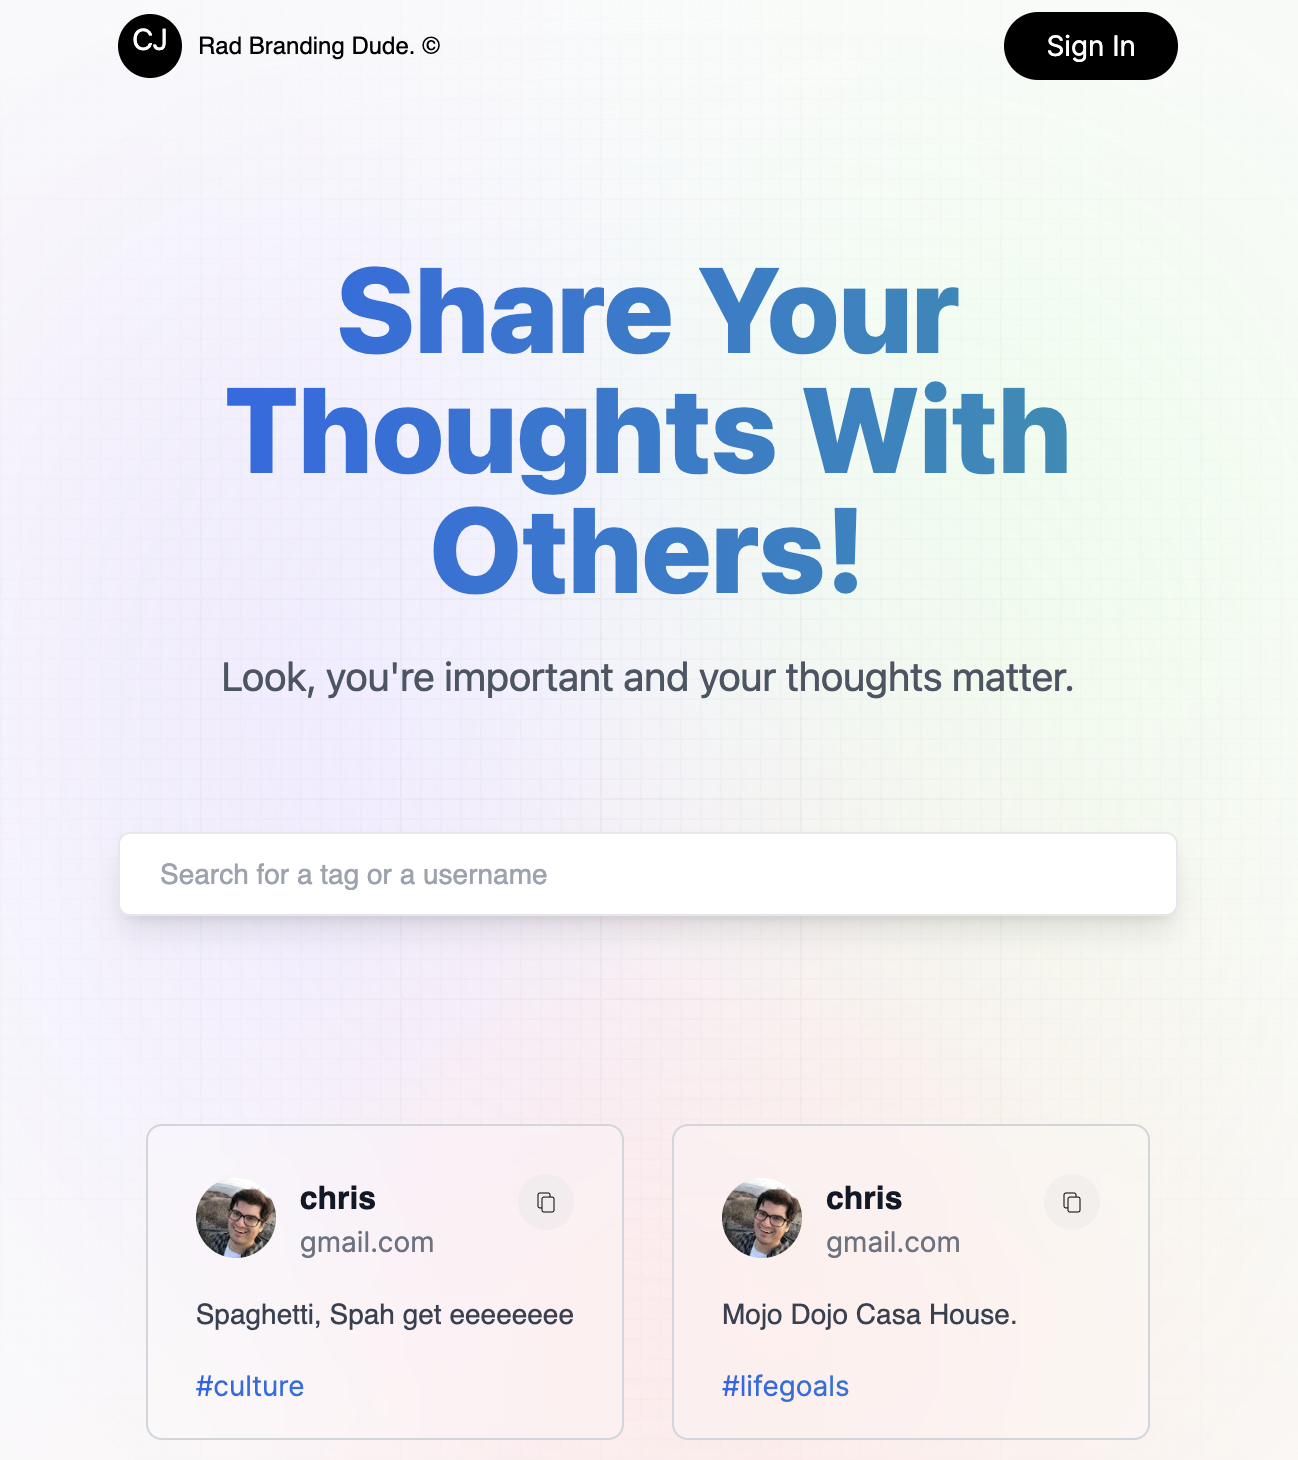
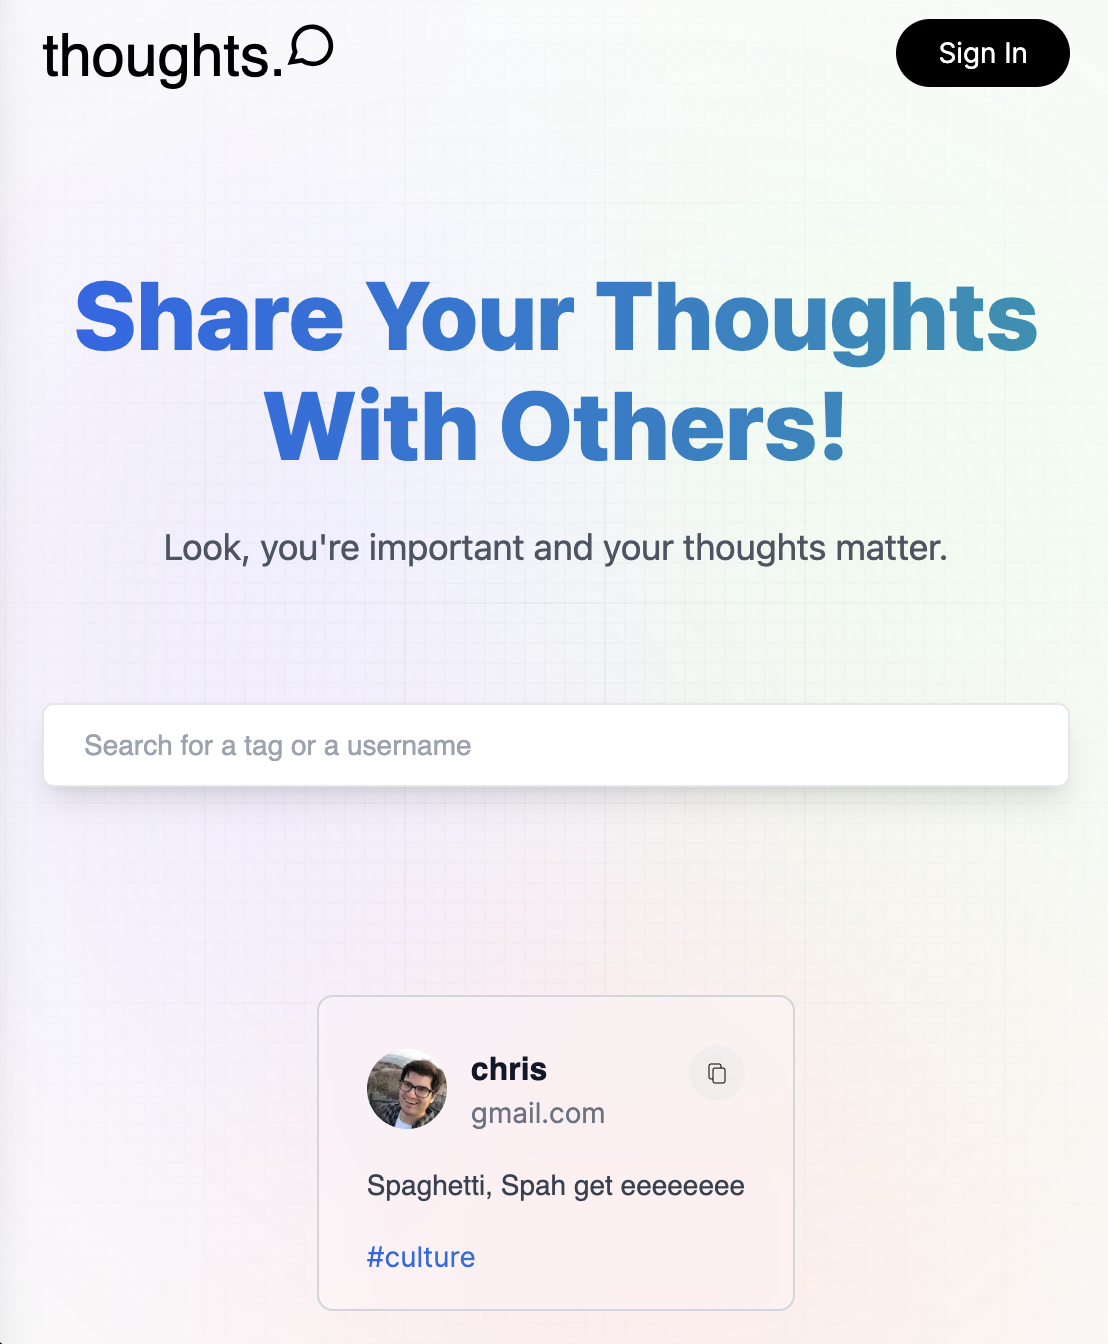
big update sorry...

diff --git a/components/Nav.jsx b/components/Nav.jsx
@@ -1,6 +1,6 @@
 "use client"; // Do to client side functionality useEffect, use State
 
-import Link  from "next/link";
+import Link from "next/link";
 import Image from "next/image";
 import { useState, useEffect } from "react";
 import {signIn, signOut, useSession, getProviders} from "next-auth/react";
@@ -23,8 +23,8 @@ const Nav = () => {
   return (
    <nav className="flex-between w-full mb-16 pt-3">
     <Link href="/" className="flex gap-2 flex-center">
-        <Image src="/assets/images/logo.svg" width={32} height={32} className="object-contain" alt="logo img"/>
-        <span className="logo_text"> Rad Branding Dude. ©</span>
+        <Image src="/assets/images/logo.svg" width={150} height={150} className="object-contain" alt="logo img"/>
+        <span className="logo_text"></span>
     </Link>
    
     {/* Desktop Navigation */}
@@ -32,17 +32,39 @@ const Nav = () => {
     <div className="sm:flex hidden">
     {session?.user ? (
         <div className="flex gap-3 md:gap-5"> 
-        <Link href="/create-prompt" className="black_btn">
+        <Link href="/share-thought" className="black_btn">
             Share Thought
         </Link>
-        <button type="button" onClick={signOut} className="outline_btn">
-            Sign Out
-        </button>
-        <Link href="/profile">
+        <div className="flex relative">
             <Image src={session?.user.image} width={37} height={37} className="rounded-full"
-            alt="profile"></Image>
-        </Link>
+            alt="profile" onClick={() => settoggleDropdown((prev) => !prev)}></Image>
+             {toggleDropdown && (
+                <div className="dropdown">
+                    <Link 
+                    href="/profile"
+                    className="dropdown_link"
+                    onClick={() => settoggleDropdown(false)}>
+                        My Profile
+                    </Link>
+                    <Link 
+                    href="/share-thought"
+                    className="dropdown_link"
+                    onClick={() => settoggleDropdown(false)}>
+                       Create Thought
+                    </Link>
+                    <Link href="/" passHref>
+                    <button type="button"
+                    onClick={() => {settoggleDropdown(false); 
+                    signOut();
+                    }}
+                    className="mt-5 w-full black_btn">
+                        Sign Out
+                    </button>
+                    </Link>
+                </div>
+            )}
         </div>
+    </div>
     ): ( 
     <>
     {providers && 
@@ -74,11 +96,12 @@ const Nav = () => {
                         My Profile
                     </Link>
                     <Link 
-                    href="/create-prompt"
+                    href="/share-thought"
                     className="dropdown_link"
                     onClick={() => settoggleDropdown(false)}>
                        Create Thought
                     </Link>
+                    <Link href="/" passHref>
                     <button type="button"
                     onClick={() => {settoggleDropdown(false); 
                     signOut();
@@ -86,6 +109,7 @@ const Nav = () => {
                     className="mt-5 w-full black_btn">
                         Sign Out
                     </button>
+                    </Link>
                 </div>
             )}
             </div>

diff --git a/app/share-thought/page.jsx b/app/share-thought/page.jsx
@@ -6,14 +6,14 @@ import { useRouter } from "next/navigation";
 
 import Form from "@components/Form";
 
-const CreatePrompt = () => {
+const ShareThougth = () => {
   const router = useRouter();
   const { data: session } = useSession();
 
   const [submitting, setIsSubmitting] = useState(false);
   const [post, setPost] = useState({ prompt: "", tag: "" });
 
-  const createPrompt = async (e) => {
+  const sharethought = async (e) => {
     e.preventDefault();
     setIsSubmitting(true);
 
@@ -39,13 +39,13 @@ const CreatePrompt = () => {
 
   return (
     <Form
-      type='Create'
+      type='Share'
       post={post}
       setPost={setPost}
       submitting={submitting}
-      handleSubmit={createPrompt}
+      handleSubmit={sharethought}
     />
   );
 };
 
-export default CreatePrompt;
+export default ShareThougth;

diff --git a/components/Form.jsx b/components/Form.jsx
@@ -53,9 +53,9 @@ const Form = ({ type, post, setPost, submitting, handleSubmit }) => {
           <button
             type='submit'
             disabled={submitting}
-            className='px-5 py-1.5 text-sm bg-primary-blue rounded-full text-white'
+            className='px-5 py-1.5 text-sm bg-primary-black rounded-full text-white'
           >
-            {submitting ? `${type}ing...` : type}
+            {submitting ? `Sharing...` : type}
           </button>
         </div>
       </form>

diff --git a/components/Profile.jsx b/components/Profile.jsx
@@ -4,7 +4,7 @@ const Profile = ({ name, desc, data, handleEdit, handleDelete }) => {
   return (
     <section className='w-full'>
       <h1 className='head_text text-left'>
-        <span className='blue_gradient'>Hello, {name}</span>
+        <span className='blue_gradient'>Hello!</span>
       </h1>
       <p className='desc text-left'>{desc}</p>
 

diff --git a/app/profile/[id]/page.jsx b/app/profile/[id]/page.jsx
@@ -7,7 +7,7 @@ import Profile from "@components/Profile";
 
 const UserProfile = ({ params }) => {
   const searchParams = useSearchParams();
-  const userName = searchParams.get("name");
+  const userName = searchParams.get("name").slice(0,5); // only give 5 char of userName
 
   const [userPosts, setUserPosts] = useState([]);
 

diff --git a/app/api/users/[id]/posts/route.js b/app/api/users/[id]/posts/route.js
@@ -11,7 +11,7 @@ export const GET = async (request, { params }) => {
             status: 200
         })
     }catch(error){
-        return new Response("Failed to fetch all prompts",{
+        return new Response("Failed to fetch all thoughts",{
             status: 500
         })
 

diff --git a/app/profile/loading.jsx b/app/profile/loading.jsx
@@ -5,8 +5,8 @@ const Loading = () => {
     <div className='w-full flex-center'>
       <Image
         src='assets/icons/loader.svg'
-        width={50}
-        height={50}
+        width={100}
+        height={100}
         alt='loader'
         className='object-contain'
       />

diff --git a/tailwind.config.js b/tailwind.config.js
@@ -12,7 +12,7 @@ module.exports = {
         inter: ["Inter", "sans-serif"],
       },
       colors: {
-        "primary-blue": "#528AAE"
+        "primary-black": "#000000"
       },
     },
   },
